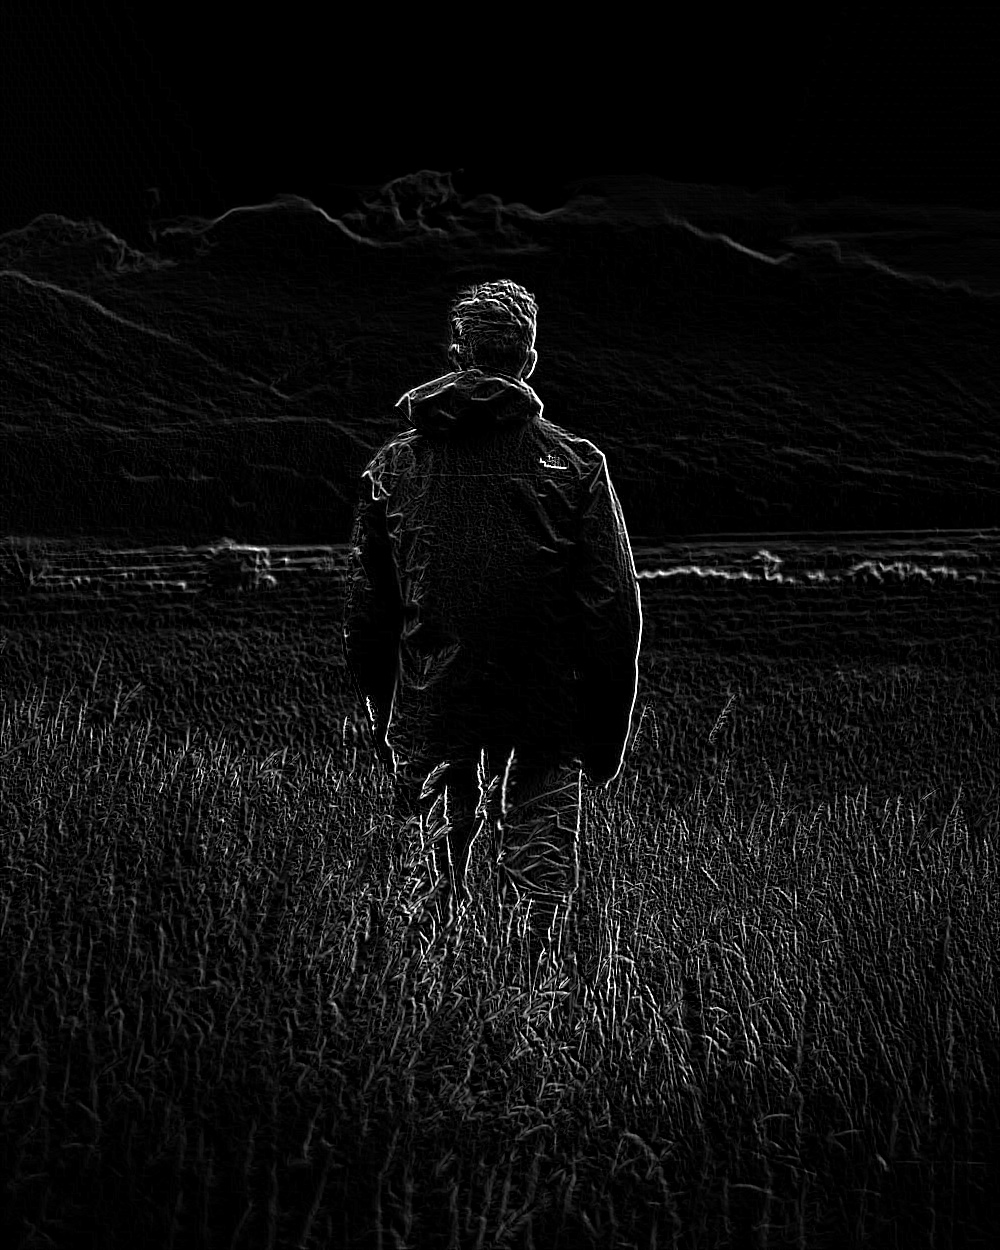
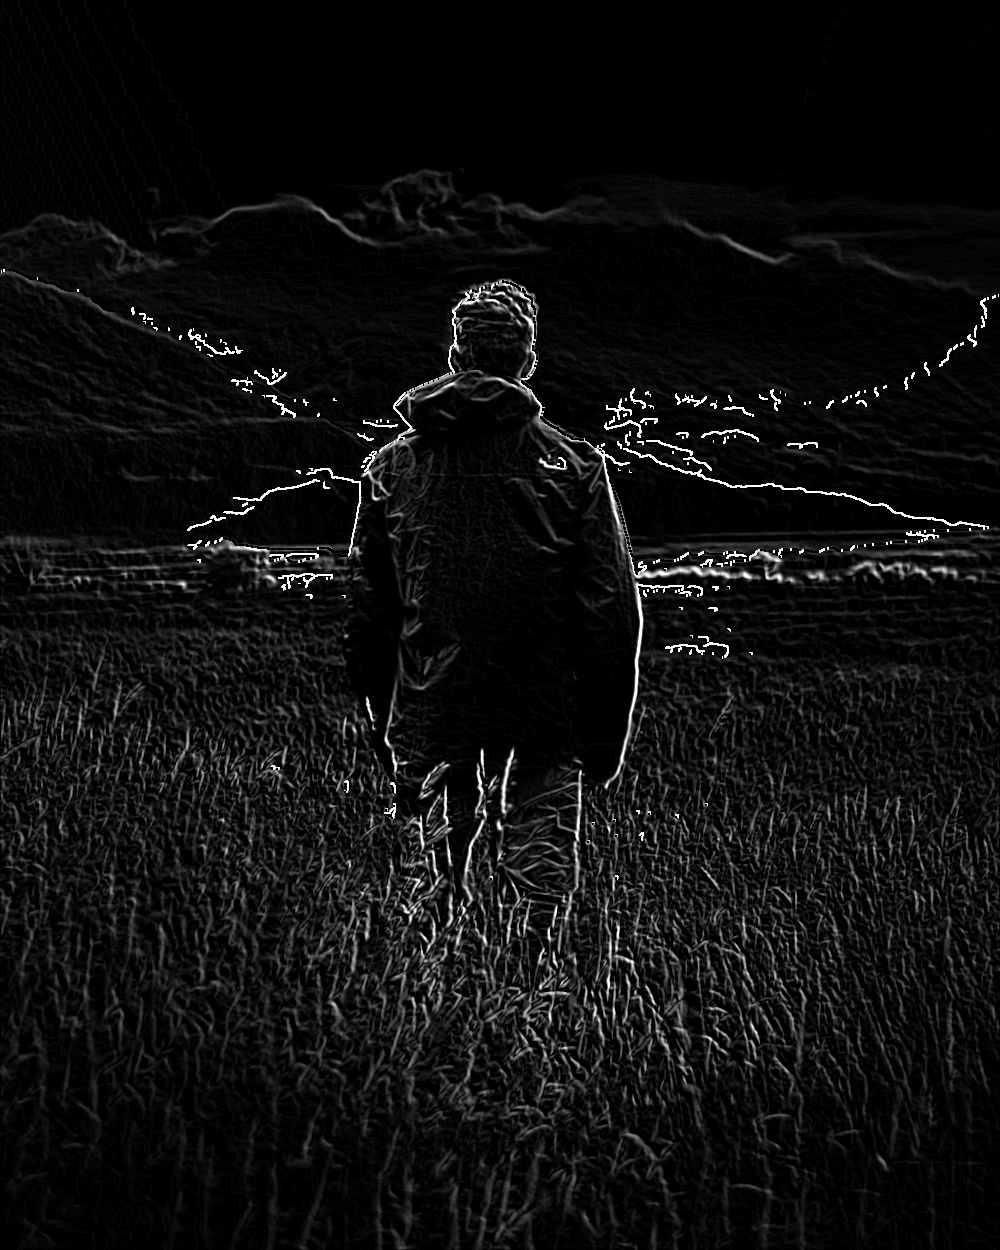
Finalna implementacija tkinter in sliderjev

diff --git a/ORV_N2.py b/ORV_N2.py
@@ -2,7 +2,7 @@ import cv2
 import numpy as np
 from matplotlib import pyplot as plt
 from matplotlib.widgets import Slider, Button
-#plt.ion()
+from tkinter import *
 
 def my_roberts(slika):
     kernelv = np.array( [[1, 0 ], [0,-1 ]] )
@@ -56,86 +56,33 @@ fig = plt.figure(figsize =(10, 7))
 rows = 2
 columns = 4
 
-bgr_slika = cv2.imread('image.jpg',0)
-slika = cv2.cvtColor(bgr_slika, cv2.COLOR_BGR2RGB)
+master = Tk()
+def Close():
+    contrastValue = contrast.get()
+    contrastValue = contrastValue/100
+    brightnessValue = brightness.get()
+    brightnessValue = brightnessValue/10
 
-global roberts_slika
-roberts_slika = my_roberts(slika)
-prewitt_slika = my_prewitt(slika)
-sobel_slika = my_prewitt(slika)
-canny_slika = canny(slika, 100, 200)
-
-cv2.imwrite('Roberts.jpg', roberts_slika)
-cv2.imwrite('Prewitt.jpg', prewitt_slika)
-cv2.imwrite('Sobel.jpg', sobel_slika)
-cv2.imwrite('Canny.jpg', canny_slika)
-
-#1 2 3 4
-#5 6 7 8
-fig.add_subplot(rows, columns, 1)
-plt.imshow(roberts_slika)
-plt.axis('off')
-plt.title("Roberts slika")
-
-fig.add_subplot(rows, columns, 2)
-plt.imshow(prewitt_slika)
-plt.axis('off')
-plt.title("Prewitt slika")
-
-fig.add_subplot(rows, columns, 5)
-plt.imshow(sobel_slika)
-plt.axis('off')
-plt.title("Sobel slika")
-
-fig.add_subplot(rows, columns, 6)
-plt.imshow(canny_slika)
-plt.axis('off')
-plt.title("Canny slika")
-
-fig.add_subplot(rows, columns, (3, 8))
-plt.imshow(slika)
-plt.axis('off')
-plt.title("Originalna slika")
-
-fig.subplots_adjust(left=0.25, bottom=0.25)
-
-fig2 = plt.figure(figsize =(10, 7))
-
-axfreq = fig2.add_axes([0.25, 0.1, 0.65, 0.03])
-contrast_slider = Slider(
-    ax=axfreq,
-    label='Kontrast (alfa)',
-    valmin=0.1,
-    valmax=30,
-    valinit=0,
-)
-
-# Make a vertically oriented slider to control the amplitude
-axamp = fig2.add_axes([0.1, 0.25, 0.0225, 0.63])
-brightness_slider = Slider(
-    ax=axamp,
-    label="Svetlost (beta)",
-    valmin=0,
-    valmax=10,
-    valinit=0,
-    orientation="vertical"
-)
-
-
-def update(val):
+    
     bgr_slika = cv2.imread('image.jpg',0)
     slika = cv2.cvtColor(bgr_slika, cv2.COLOR_BGR2RGB)
-    slika = spremeni_kontrast(slika, contrast_slider.val, brightness_slider.val)
+    slika = cv2.GaussianBlur(slika, (5,5), 0)
+    print("lmao " , contrastValue, " haha " , brightnessValue)
+    slika = spremeni_kontrast(slika, contrastValue, brightnessValue)
+
 
     roberts_slika = my_roberts(slika)
     prewitt_slika = my_prewitt(slika)
     sobel_slika = my_prewitt(slika)
     canny_slika = canny(slika, 100, 200)
 
-    fig.clear()
+    cv2.imwrite('Roberts.jpg', roberts_slika)
+    cv2.imwrite('Prewitt.jpg', prewitt_slika)
+    cv2.imwrite('Sobel.jpg', sobel_slika)
+    cv2.imwrite('Canny.jpg', canny_slika)
 
-    
-
+    #1 2 3 4
+    #5 6 7 8
     fig.add_subplot(rows, columns, 1)
     plt.imshow(roberts_slika)
     plt.axis('off')
@@ -161,10 +108,16 @@ def update(val):
     plt.axis('off')
     plt.title("Originalna slika")
 
-    fig.canvas.draw()
+    plt.show()
 
-contrast_slider.on_changed(update)
-brightness_slider.on_changed(update)
+# Button for closing
+exit_button = Button(master, text="Submit", command=Close)
+exit_button.pack(pady=20)
 
 
-plt.show()
+
+contrast = Scale(master, from_=-300, to=300, orient=HORIZONTAL)
+contrast.pack()
+brightness = Scale(master, from_=-100, to=100, orient=HORIZONTAL)
+brightness.pack()
+mainloop()
